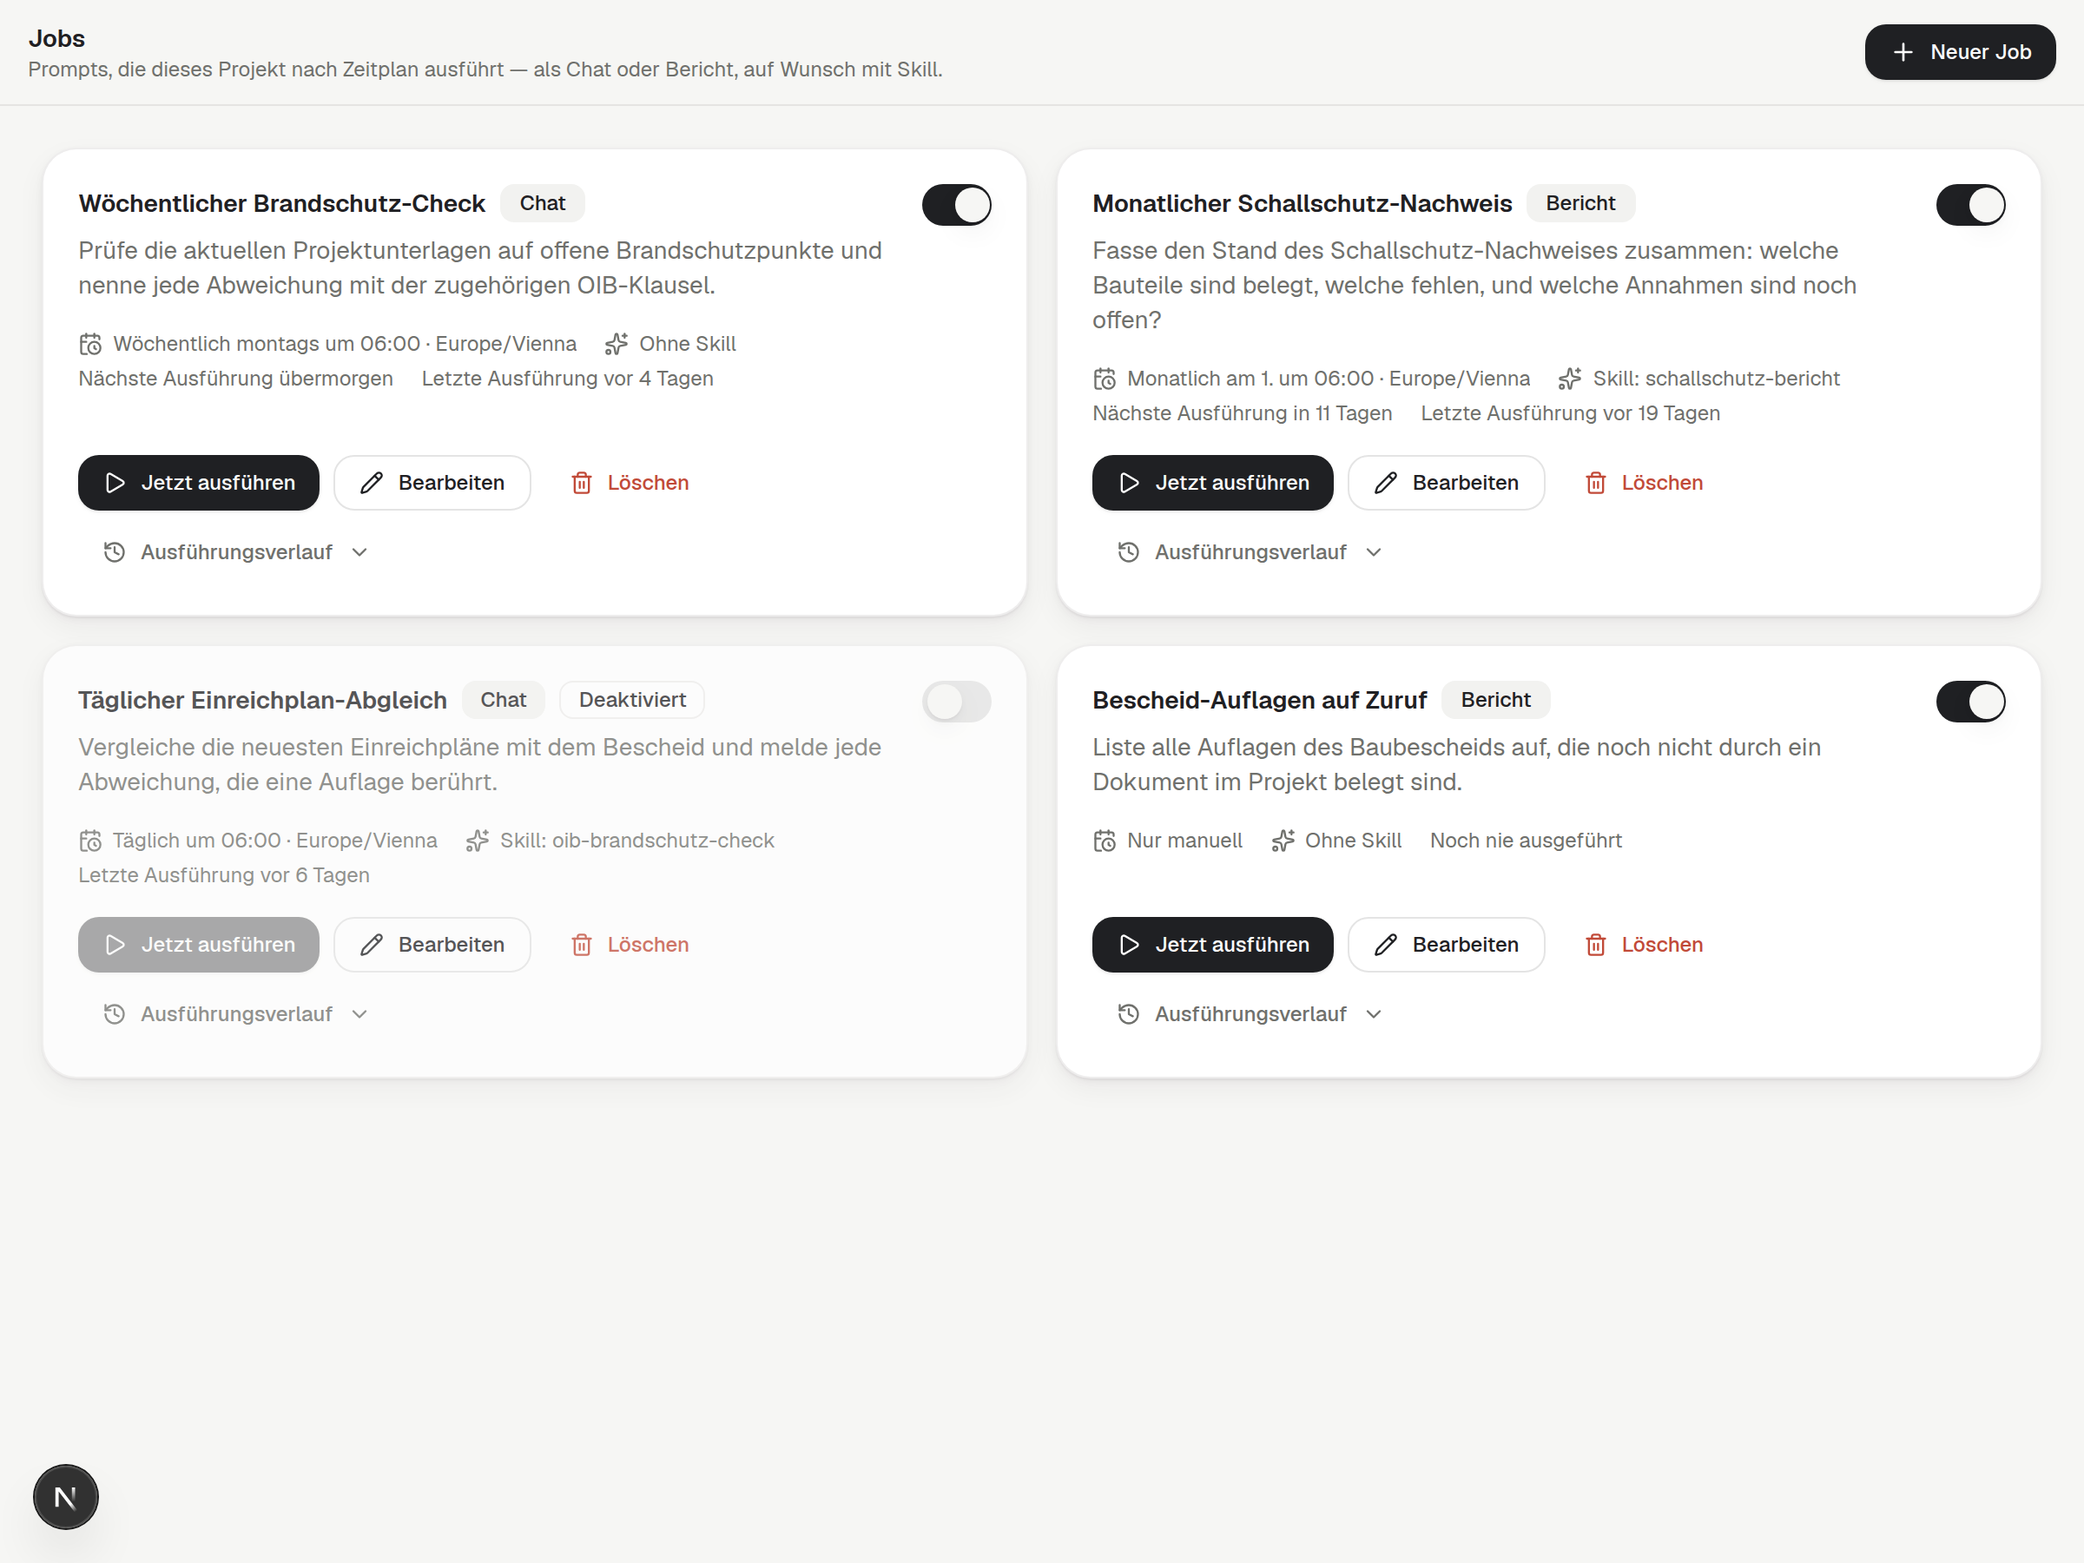
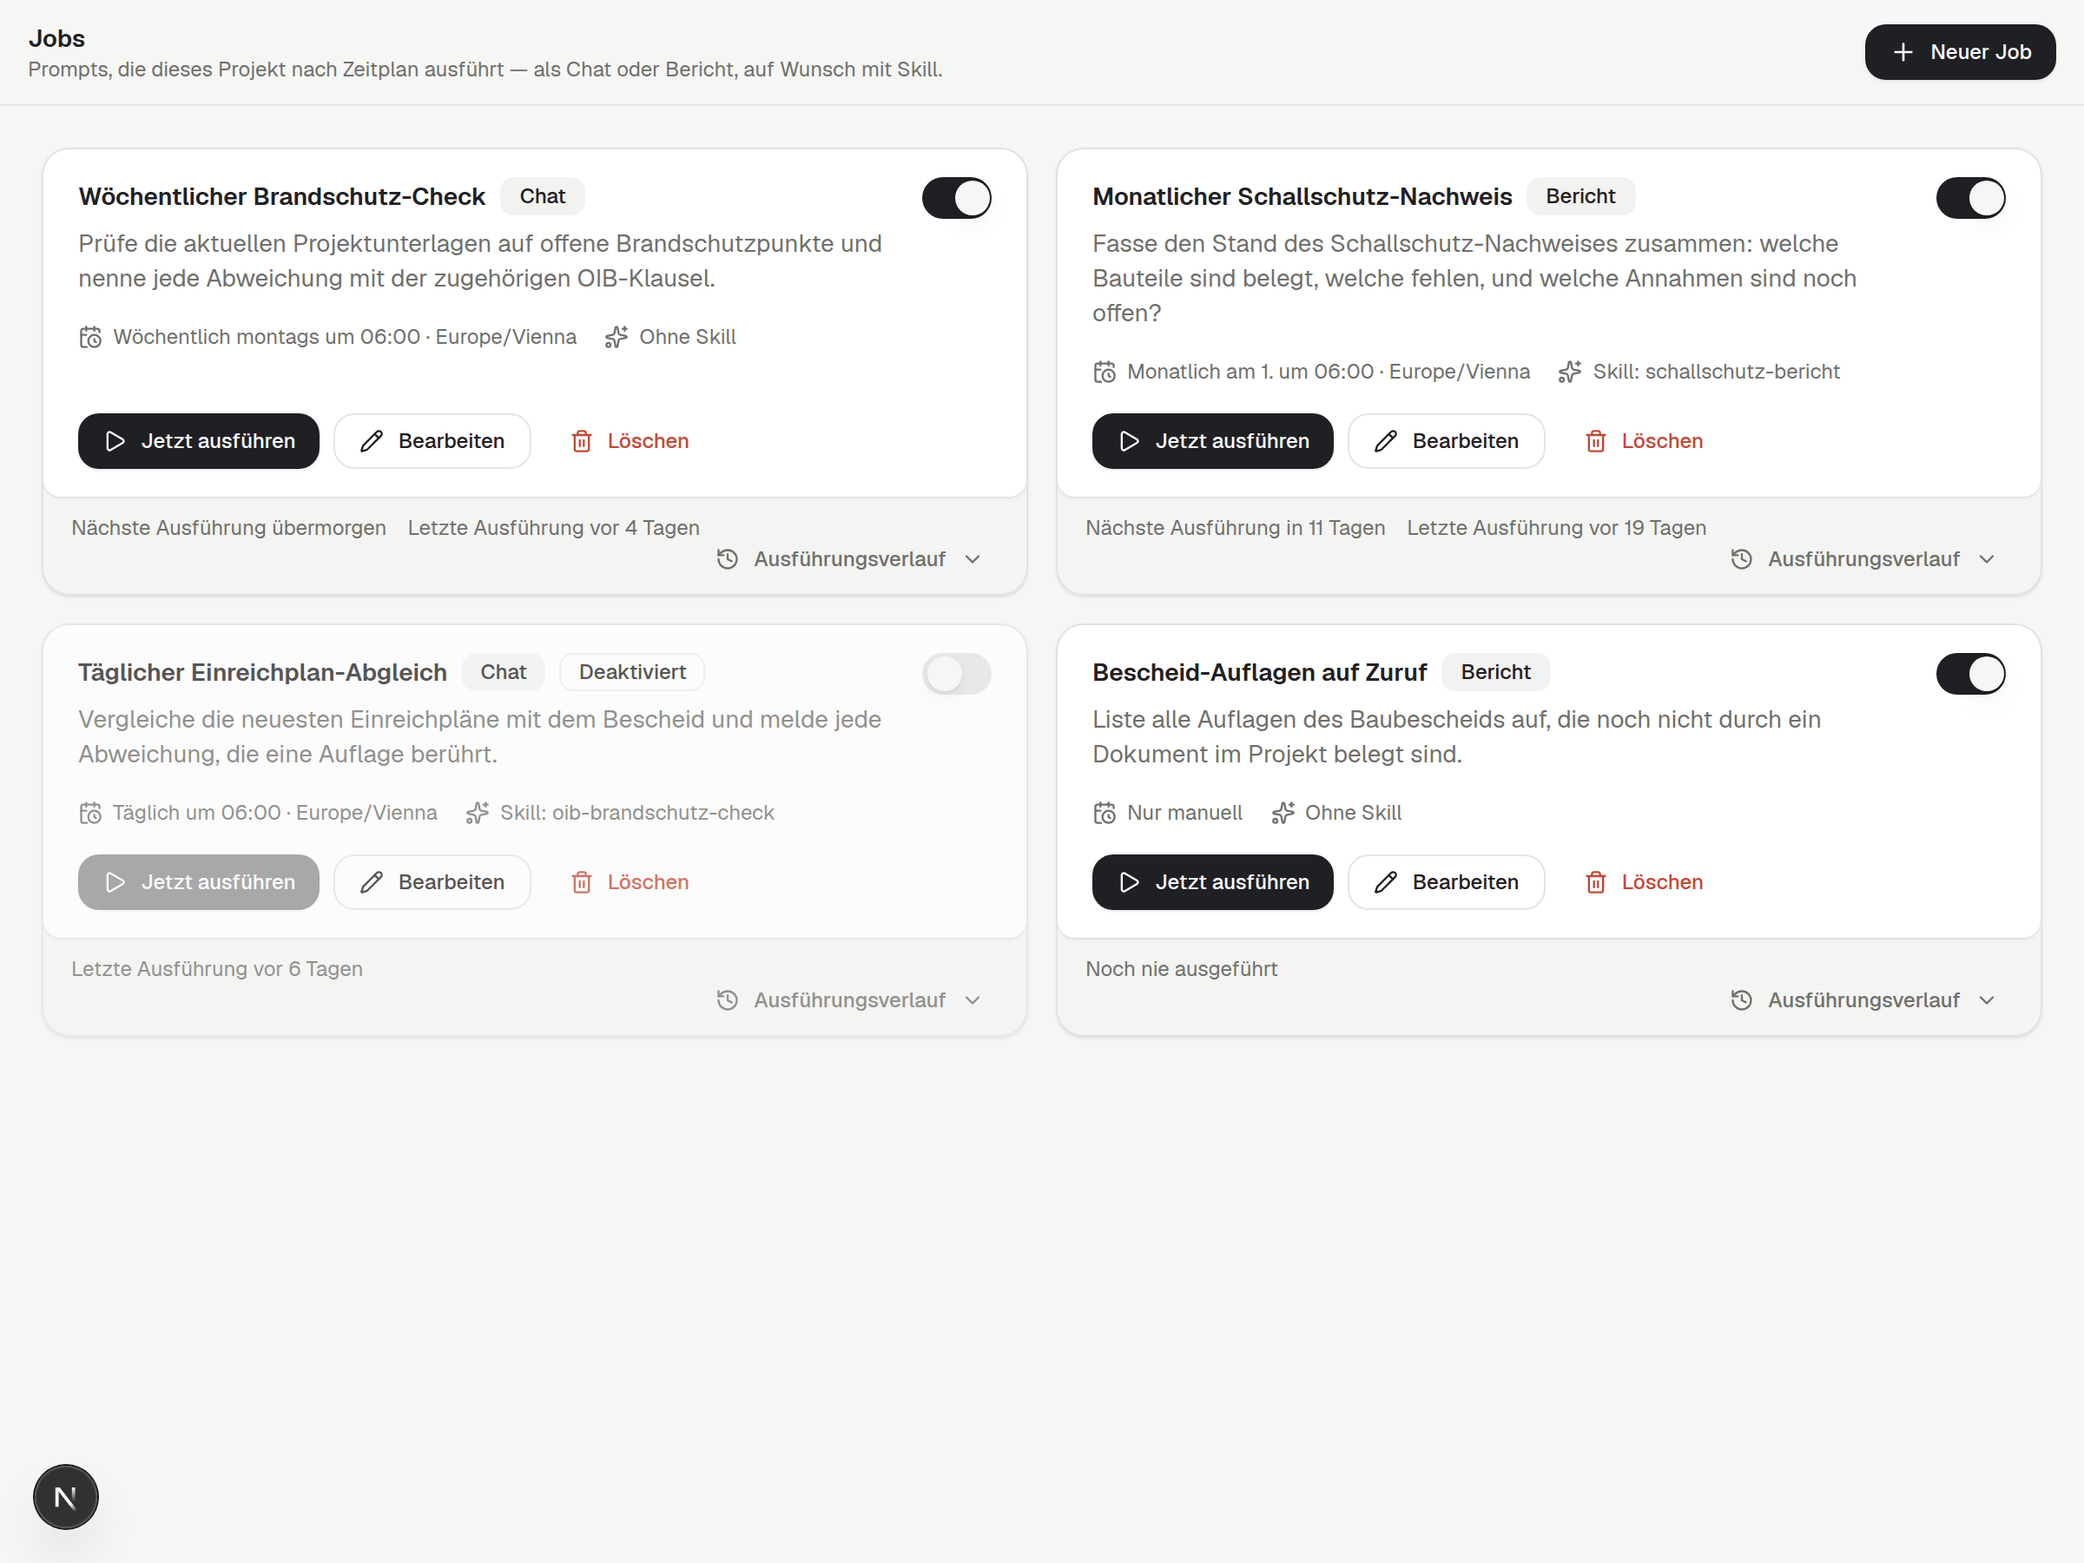
refactor(ui): extract the raised card, and put the job cards on it
The product's card — a white block laid into a subtler tray, with quiet
metadata showing on the tray beneath it — was written four separate times
(documents/file-card, documents/file-grid, grid-cards/DocumentGridCard,
projects/project-card), each with its own copy of `rounded-b-[10px] bg-card`
over `bg-muted/50`, and each free to drift by a pixel. file-card's docstring
says it "mirrors ProjectCard / the Archiv library card", which is a comment
doing a component's job.

RaisedCard / RaisedCardBody / RaisedCardFooter give that anatomy a name. The
job cards use it, so they read as the same object as a file card instead of a
plain bordered box. The four originals keep their hand-rolled copies until
each is moved over separately — they differ in padding, in what they wrap and
in hover behaviour, and collapsing that blind breaks four surfaces at once.

The footer is two fixed lines rather than one wrapping row: a job with both a
next and a last run overflows a single line at grid width and pushes the
history toggle down on its own, while a job with only one of them does not, so
neighbouring cards in the same row ended up with different tray shapes.

Claude-Session: https://claude.ai/code/session_018sZbwcfwp2uQCjtGgFHwnG

diff --git a/frontends/ui/src/features/jobs/components/job-list.tsx b/frontends/ui/src/features/jobs/components/job-list.tsx
@@ -29,7 +29,7 @@ import { toast } from 'sonner'
 import { Alert, AlertDescription, AlertTitle } from '@/components/ui/alert'
 import { Badge } from '@/components/ui/badge'
 import { Button } from '@/components/ui/button'
-import { Card, CardContent } from '@/components/ui/card'
+import { RaisedCard, RaisedCardBody, RaisedCardFooter } from '@/components/ui/raised-card'
 import { Collapsible, CollapsibleContent, CollapsibleTrigger } from '@/components/ui/collapsible'
 import { EmptyState } from '@/components/ui/empty-state'
 import { Skeleton } from '@/components/ui/skeleton'
@@ -196,24 +196,24 @@ function JobCard({
     : t('list.neverRun')
 
   return (
-    // `h-full` so every card in a grid row is the height of the tallest one —
-    // a ragged row of cards reads as a broken layout, not as varying content.
-    // `py-0` drops Card's own vertical padding: with CardContent's it stacked
-    // to 44px of nothing above and below the content, which a tile in a grid
-    // cannot afford.
-    <Card className={cn('h-full py-0', !job.enabled && 'opacity-75')}>
-      <CardContent className="flex h-full flex-col gap-4 p-4 sm:p-5">
+    // The product's card anatomy (components/ui/raised-card): a white block
+    // laid into a subtler tray, with the quiet metadata showing on the tray
+    // beneath it. Not `interactive` — a job card is a container with its own
+    // buttons, and a hover-lift would promise a click on the card that does
+    // not exist.
+    <RaisedCard className={cn(!job.enabled && 'opacity-75')}>
+      <RaisedCardBody className="flex flex-1 flex-col gap-4 px-4 pb-4 pt-4 sm:px-5">
         <div className="flex items-start justify-between gap-4">
           <div className="min-w-0 space-y-1.5">
             <div className="flex flex-wrap items-center gap-2">
-              <h3 className="truncate text-sm font-semibold text-foreground">{job.name}</h3>
+              <h3 className="text-foreground truncate text-sm font-semibold">{job.name}</h3>
               <Badge variant="secondary">{t(`list.output.${job.output}`)}</Badge>
               {!job.enabled && <Badge variant="outline">{t('list.disabled')}</Badge>}
             </div>
             {/* The prompt, verbatim and clamped to a fixed three lines: in a
                 grid the card is a third of the page wide, and an unclamped
                 prompt would set the height of every card in its row. */}
-            <p className="line-clamp-3 text-sm text-muted-foreground">{job.prompt}</p>
+            <p className="text-muted-foreground line-clamp-3 text-sm">{job.prompt}</p>
           </div>
           <div className="flex shrink-0 items-center gap-2">
             {toggling && <Spinner size="sm" />}
@@ -232,7 +232,7 @@ function JobCard({
           </div>
         </div>
 
-        <div className="flex flex-wrap items-center gap-x-4 gap-y-1 text-xs text-muted-foreground">
+        <div className="text-muted-foreground flex flex-wrap items-center gap-x-4 gap-y-1 text-xs">
           <span className="flex min-w-0 max-w-full items-center gap-1.5">
             <CalendarClock className="size-3.5 shrink-0" aria-hidden />
             <span className="truncate">
@@ -249,51 +249,80 @@ function JobCard({
               {job.skillName ? t('list.withSkill', { name: job.skillName }) : t('list.noSkill')}
             </span>
           </span>
-          {nextRun && <span>{nextRun}</span>}
-          <span title={job.lastRunAt ? formatAbsoluteTime(job.lastRunAt, locale) : undefined}>
-            {lastRun}
-          </span>
         </div>
 
-        {/* Actions and the history live at the FOOT of the card: `mt-auto`
-            pins them to the bottom edge, so in a grid row of unequal content
-            the buttons line up across cards instead of floating at whatever
-            height the prompt above them happened to end. */}
-        <div className="mt-auto flex flex-col gap-2">
-        {canManage && (
-          <div className="flex flex-wrap items-center gap-2">
-            <Button size="sm" onClick={() => void runNow()} disabled={running || !job.enabled}>
-              {running ? <Spinner size="sm" /> : <Play className="size-3.5" aria-hidden />}
-              {running ? t('actions.running') : t('actions.runNow')}
-            </Button>
-            <Button size="sm" variant="outline" data-testid="job-edit" onClick={() => onEdit(job)}>
-              <Pencil className="size-3.5" aria-hidden />
-              {t('actions.edit')}
-            </Button>
-            <Button
-              size="sm"
-              variant="ghost"
-              className="text-destructive hover:text-destructive"
-              onClick={() => setConfirmOpen(true)}
-            >
-              <Trash2 className="size-3.5" aria-hidden />
-              {t('actions.delete')}
-            </Button>
-          </div>
-        )}
+        {/* `mt-auto` pins the actions to the bottom of the white block, so in
+            a grid row of unequal content the buttons line up across cards
+            instead of floating at whatever height the prompt above them
+            happened to end. */}
+        <div className="mt-auto">
+          {canManage && (
+            <div className="flex flex-wrap items-center gap-2">
+              <Button size="sm" onClick={() => void runNow()} disabled={running || !job.enabled}>
+                {running ? <Spinner size="sm" /> : <Play className="size-3.5" aria-hidden />}
+                {running ? t('actions.running') : t('actions.runNow')}
+              </Button>
+              <Button
+                size="sm"
+                variant="outline"
+                data-testid="job-edit"
+                onClick={() => onEdit(job)}
+              >
+                <Pencil className="size-3.5" aria-hidden />
+                {t('actions.edit')}
+              </Button>
+              <Button
+                size="sm"
+                variant="ghost"
+                className="text-destructive hover:text-destructive"
+                onClick={() => setConfirmOpen(true)}
+              >
+                <Trash2 className="size-3.5" aria-hidden />
+                {t('actions.delete')}
+              </Button>
+            </div>
+          )}
+        </div>
+      </RaisedCardBody>
 
-        <Collapsible open={historyOpen} onOpenChange={setHistoryOpen}>
-          <CollapsibleTrigger asChild>
-            <Button variant="ghost" size="sm" className="text-muted-foreground">
-              <History className="size-3.5" aria-hidden />
-              {t('actions.history')}
-              <ChevronDown
-                className={cn('size-3.5 transition-transform', historyOpen && 'rotate-180')}
-                aria-hidden
-              />
-            </Button>
-          </CollapsibleTrigger>
-          <CollapsibleContent className="border-t border-border pt-1">
+      {/* The tray showing beneath the block: when it next runs, when it last
+          did, and the way into the history. Quiet, temporal, secondary — the
+          same role size · time plays on a file card. No divider: the surface
+          change IS the separation. */}
+      <RaisedCardFooter className="flex-col items-stretch gap-1">
+        <Collapsible open={historyOpen} onOpenChange={setHistoryOpen} className="w-full">
+          {/* Two fixed lines, not one wrapping row. A card that happens to have
+              both a next and a last run overflows a single line at grid width
+              and wraps the trigger down on its own; a card with only one of
+              them keeps everything on one line. Same component, two different
+              footer shapes side by side in the same row. Splitting the meta
+              from the disclosure makes every card's tray identical. */}
+          <div className="flex w-full flex-wrap items-center gap-x-3 gap-y-1">
+            {nextRun && <span className="truncate">{nextRun}</span>}
+            <span
+              className="truncate"
+              title={job.lastRunAt ? formatAbsoluteTime(job.lastRunAt, locale) : undefined}
+            >
+              {lastRun}
+            </span>
+          </div>
+          <div className="flex w-full items-center">
+            <CollapsibleTrigger asChild>
+              <Button
+                variant="ghost"
+                size="sm"
+                className="text-muted-foreground -my-1 ml-auto h-7 shrink-0 px-2"
+              >
+                <History className="size-3.5" aria-hidden />
+                {t('actions.history')}
+                <ChevronDown
+                  className={cn('size-3.5 transition-transform', historyOpen && 'rotate-180')}
+                  aria-hidden
+                />
+              </Button>
+            </CollapsibleTrigger>
+          </div>
+          <CollapsibleContent className="pt-1">
             {historyOpen && (
               <JobRunHistory
                 key={historyToken}
@@ -304,8 +333,7 @@ function JobCard({
             )}
           </CollapsibleContent>
         </Collapsible>
-        </div>
-      </CardContent>
+      </RaisedCardFooter>
 
       <ConfirmDeleteDialog
         open={confirmOpen}
@@ -317,7 +345,7 @@ function JobCard({
         pending={deleting}
         onConfirm={confirmDelete}
       />
-    </Card>
+    </RaisedCard>
   )
 }
 

diff --git a/frontends/ui/src/components/ui/raised-card.tsx b/frontends/ui/src/components/ui/raised-card.tsx
@@ -1,0 +1,125 @@
+'use client'
+
+/**
+ * The raised card: a white content block sitting PROUD of a subtler outer
+ * surface, with a footer tab on that outer surface carrying quiet metadata.
+ *
+ * This shape is the product's card. It was written four separate times before
+ * this file existed — `documents/file-card.tsx`, `documents/file-grid.tsx`,
+ * `grid-cards/DocumentGridCard.tsx` and `projects/project-card.tsx` — each
+ * carrying its own copy of `rounded-b-[10px] bg-card shadow-xs` over
+ * `rounded-xl border bg-muted/50`, and each free to drift from the others by a
+ * pixel or a shadow. `file-card.tsx`'s own docstring says it "mirrors
+ * ProjectCard / the Archiv library card", which is a comment doing the job a
+ * component should.
+ *
+ * The two-surface trick is the whole point and the easiest thing to get subtly
+ * wrong: the inner block is rounded only at the BOTTOM (`rounded-b-[10px]`)
+ * and the outer container clips it, so the block reads as a sheet laid into a
+ * tray rather than a box inside a box. The footer is not a bordered section —
+ * it is the tray showing beneath the sheet, which is why it needs no divider.
+ *
+ * Adoption is deliberately incremental: this ships used by the Jobs cards. The
+ * four originals keep their hand-rolled copies until each is moved over
+ * separately, because they differ in padding, in what they wrap (button, article,
+ * anchor) and in their hover behaviour, and collapsing those differences blind
+ * is how a refactor breaks four surfaces at once.
+ */
+
+import type { ComponentProps, ReactNode } from 'react'
+import { motion, springSnappy } from '@/components/motion'
+import { cn } from '@/lib/utils'
+
+export interface RaisedCardProps extends Omit<ComponentProps<'div'>, 'ref'> {
+  /**
+   * Lift on hover. On for anything that opens something; off for a card that
+   * is a container rather than a target, where a lift promises a click that
+   * does not exist.
+   */
+  interactive?: boolean
+  children: ReactNode
+}
+
+/** The outer tray. Clips the body's bottom radius and owns the hover shadow. */
+export function RaisedCard({
+  interactive = false,
+  className,
+  children,
+  ...rest
+}: RaisedCardProps): JSX.Element {
+  const card = (
+    <div
+      className={cn(
+        'border-border bg-muted/50 shadow-xs relative flex h-full min-w-0 flex-col overflow-hidden rounded-xl border',
+        'transition-shadow duration-200 ease-out motion-reduce:transition-none',
+        interactive && 'hover:shadow-md',
+        className
+      )}
+      {...rest}
+    >
+      {children}
+    </div>
+  )
+
+  if (!interactive) return card
+  return (
+    <motion.div
+      className="h-full min-w-0"
+      whileHover={{ y: -3 }}
+      whileTap={{ scale: 0.985 }}
+      transition={springSnappy}
+    >
+      {card}
+    </motion.div>
+  )
+}
+
+/**
+ * The raised white block. Rounded at the bottom only — the top edge is flush
+ * with the tray, which is what makes it read as laid in rather than floating.
+ */
+export function RaisedCardBody({
+  className,
+  children,
+  ...rest
+}: ComponentProps<'div'>): JSX.Element {
+  return (
+    <div
+      className={cn(
+        'bg-card shadow-xs w-full overflow-hidden rounded-b-[10px] px-4 pb-3 pt-3.5',
+        className
+      )}
+      {...rest}
+    >
+      {children}
+    </div>
+  )
+}
+
+/**
+ * The footer tab: the tray showing beneath the block.
+ *
+ * `mt-auto` so it sits at the bottom however tall the body is — which is what
+ * keeps footers aligned across a row of cards of differing content height, the
+ * thing that makes a grid look like a grid.
+ *
+ * No top border by design. The separation is the surface change, and adding a
+ * divider on top of it reads as two stacked boxes.
+ */
+export function RaisedCardFooter({
+  className,
+  children,
+  ...rest
+}: ComponentProps<'div'>): JSX.Element {
+  return (
+    <div
+      className={cn(
+        'text-muted-foreground mt-auto flex w-full items-center gap-2 px-4 py-2.5 text-xs',
+        className
+      )}
+      {...rest}
+    >
+      {children}
+    </div>
+  )
+}
